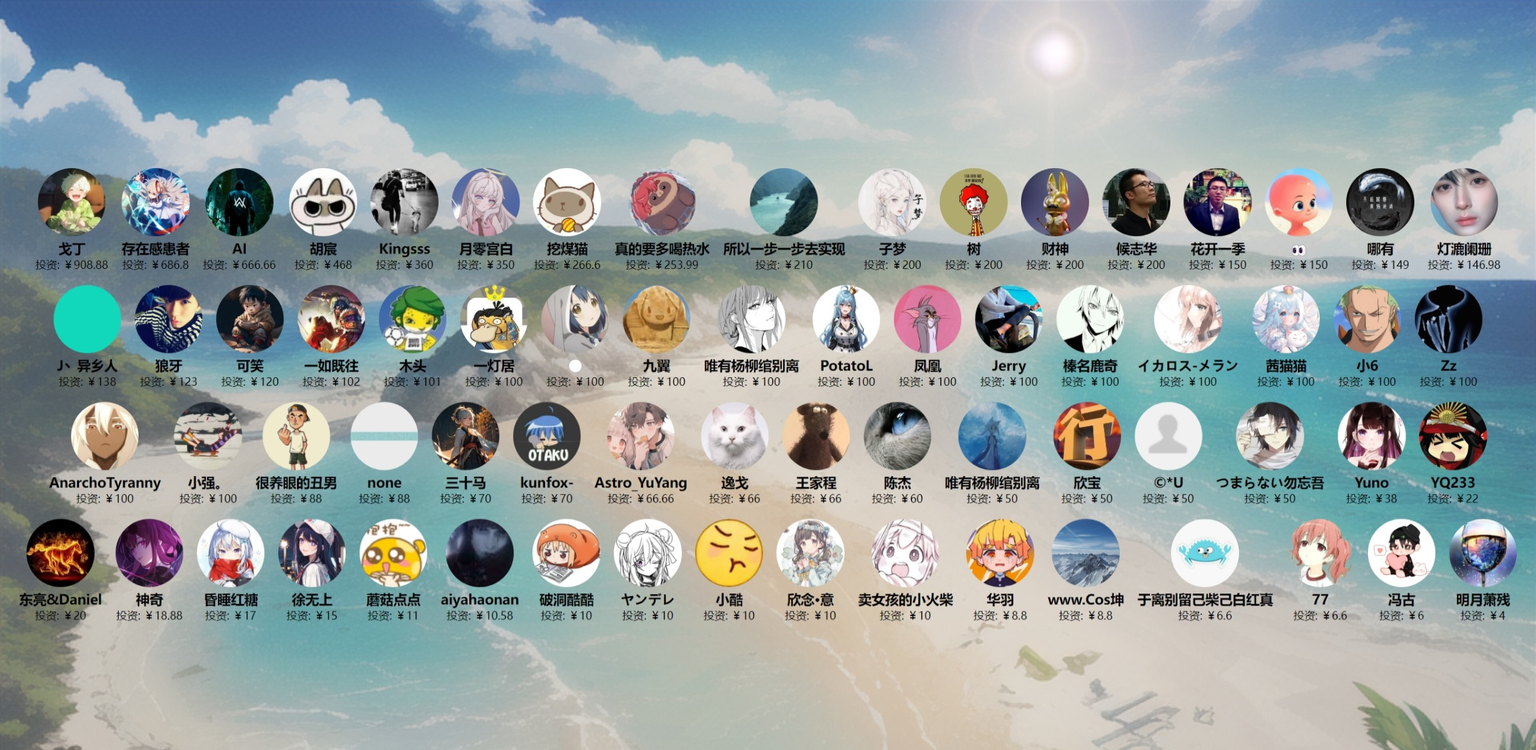
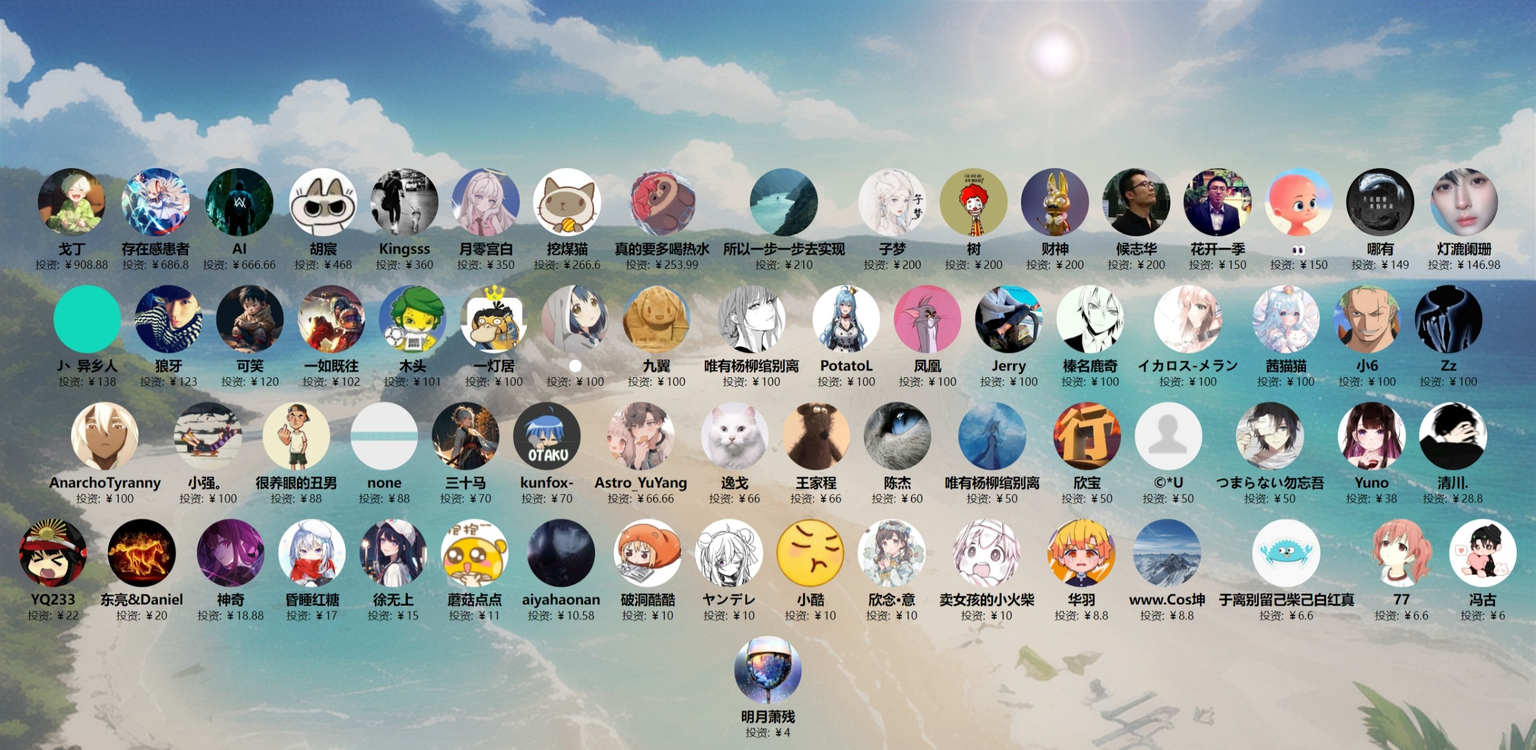
更新投资人

Changed region(s): [[0.0, 0.6775, 0.9887, 0.8315], [0.4635, 0.8315, 0.5253, 0.9855], [0.9269, 0.5235, 0.9887, 0.6775]]

diff --git a/docs/投资人/index.html b/docs/投资人/index.html
@@ -297,6 +297,11 @@
             amount: "￥38"
         },
         {
+            name: "清川.",
+            avatar: "https://images.cnblogs.com/cnblogs_com/ikaros-521/2328032/o_231219135755_QQ%E5%9B%BE%E7%89%8720231219215738.jpg",
+            amount: "￥28.8"
+        },
+        {
             name: "YQ233",
             avatar: "https://images.cnblogs.com/cnblogs_com/ikaros-521/2328032/o_230719132530_QQ%E5%9B%BE%E7%89%8720230719212443.jpg",
             amount: "￥22"
